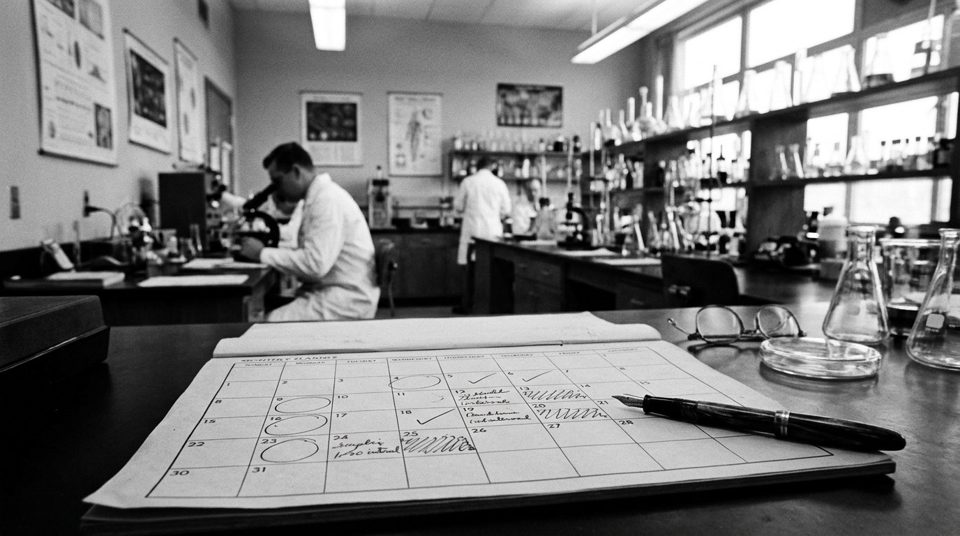
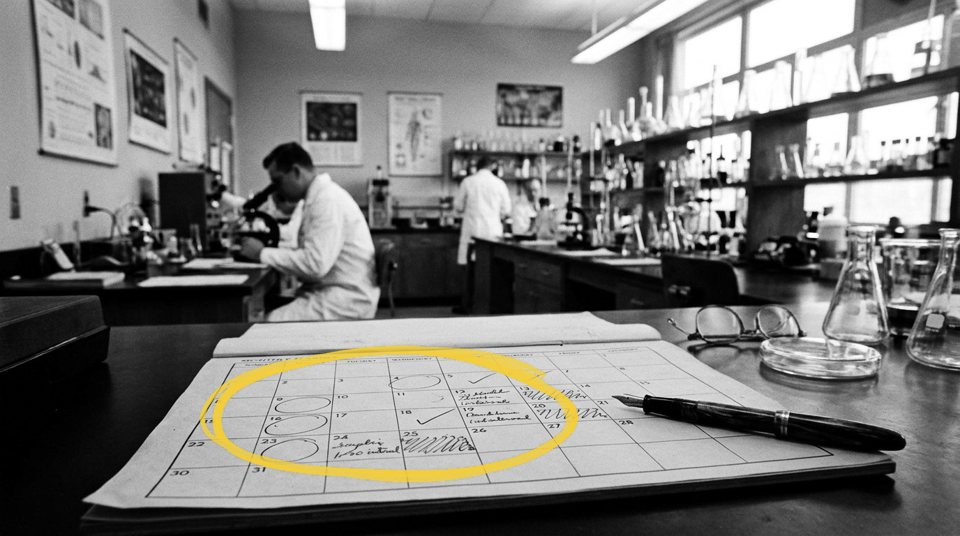
Blog: tiny PubMed reference line instead of the study box; article photos black and white with a yellow highlight circle
Claude-Session: https://claude.ai/code/session_01RhEuVys9XELvgcnyr1aJyX

Changed region(s): [[0.1875, 0.6269, 0.625, 0.9254]]

diff --git a/assets/blog.css b/assets/blog.css
@@ -41,18 +41,12 @@ body.blog{background:#fdfbf8}
 .bl-author b{font-weight:600;color:var(--ink)}
 .bl-author span{color:var(--faint);font-size:13px}
 
-/* the study: a quiet box with a small PubMed-style card */
-.bs{display:grid;grid-template-columns:120px minmax(0,1fr);gap:16px;align-items:center;background:#fff;border:1px solid var(--line);border-radius:8px;padding:14px;margin:0 0 32px}
-@media(max-width:520px){.bs{grid-template-columns:92px minmax(0,1fr);gap:12px;padding:12px}}
-.bs-shot{display:block;border-radius:4px;overflow:hidden;border:1px solid var(--line);background:#fff;aspect-ratio:4/3}
-.bs-shot img{display:block;width:100%;height:100%;object-fit:cover;object-position:top left}
-.bs-card{display:flex;flex-direction:column;gap:4px;height:100%;padding:8px 9px;font-family:Arial,Helvetica,sans-serif;color:#212121;overflow:hidden}
-.bs-card small{font-size:9.5px;font-weight:700;color:#20558a}
-.bs-card b{font-size:10px;line-height:1.25;font-weight:700;color:#20558a;display:-webkit-box;-webkit-line-clamp:5;-webkit-box-orient:vertical;overflow:hidden}
-.bs-card i{font-style:normal;font-size:8.5px;color:#5b616b;line-height:1.25;display:-webkit-box;-webkit-line-clamp:3;-webkit-box-orient:vertical;overflow:hidden}
-.bs-k{display:block;font-size:11px;font-weight:600;letter-spacing:.14em;text-transform:uppercase;color:var(--faint);margin:0 0 5px}
-.bs-t{font-weight:600;font-size:15.5px;line-height:1.4;margin:0 0 5px;color:var(--ink)}
-.bs-c{font-size:13px;color:var(--muted);margin:0;line-height:1.45}
+/* the study: one tiny line — a little blue PubMed card and the study in a sentence */
+.bs{display:flex;align-items:center;gap:9px;margin:0 0 26px;min-width:0}
+.bs-pm{flex:none;display:inline-block;background:#20558a;color:#fff;font:700 10.5px/1 Arial,Helvetica,sans-serif;letter-spacing:.02em;padding:5px 7px;border-radius:4px}
+.bs-one{min-width:0;font-size:13.5px;line-height:1.35;color:var(--muted);white-space:nowrap;overflow:hidden;text-overflow:ellipsis}
+.bs-one b{font-weight:600;color:var(--ink);margin-right:2px}
+@media(max-width:520px){.bs{gap:7px;margin-bottom:22px}.bs-pm{font-size:9.5px;padding:4px 6px}.bs-one{font-size:12.5px}}
 
 /* the words: a calm reading serif */
 .bl-body{font-family:Charter,"Bitstream Charter","Iowan Old Style","Sitka Text",Cambria,Georgia,serif}

diff --git a/admin.html b/admin.html
@@ -14,7 +14,7 @@
 <link rel="stylesheet" href="assets/mth.css?v=202610302100">
 <link rel="stylesheet" href="assets/admin.css?v=202610301200">
 <link rel="stylesheet" href="assets/library.css?v=202610291900">
-<link rel="stylesheet" href="assets/blog.css?v=202610302100">
+<link rel="stylesheet" href="assets/blog.css?v=202610302200">
 <script src="assets/vendor/supabase-2.118.0.js"></script>
 <script src="assets/mth.js?v=202610302100"></script>
 <script src="assets/courses.js?v=202610282200"></script>
